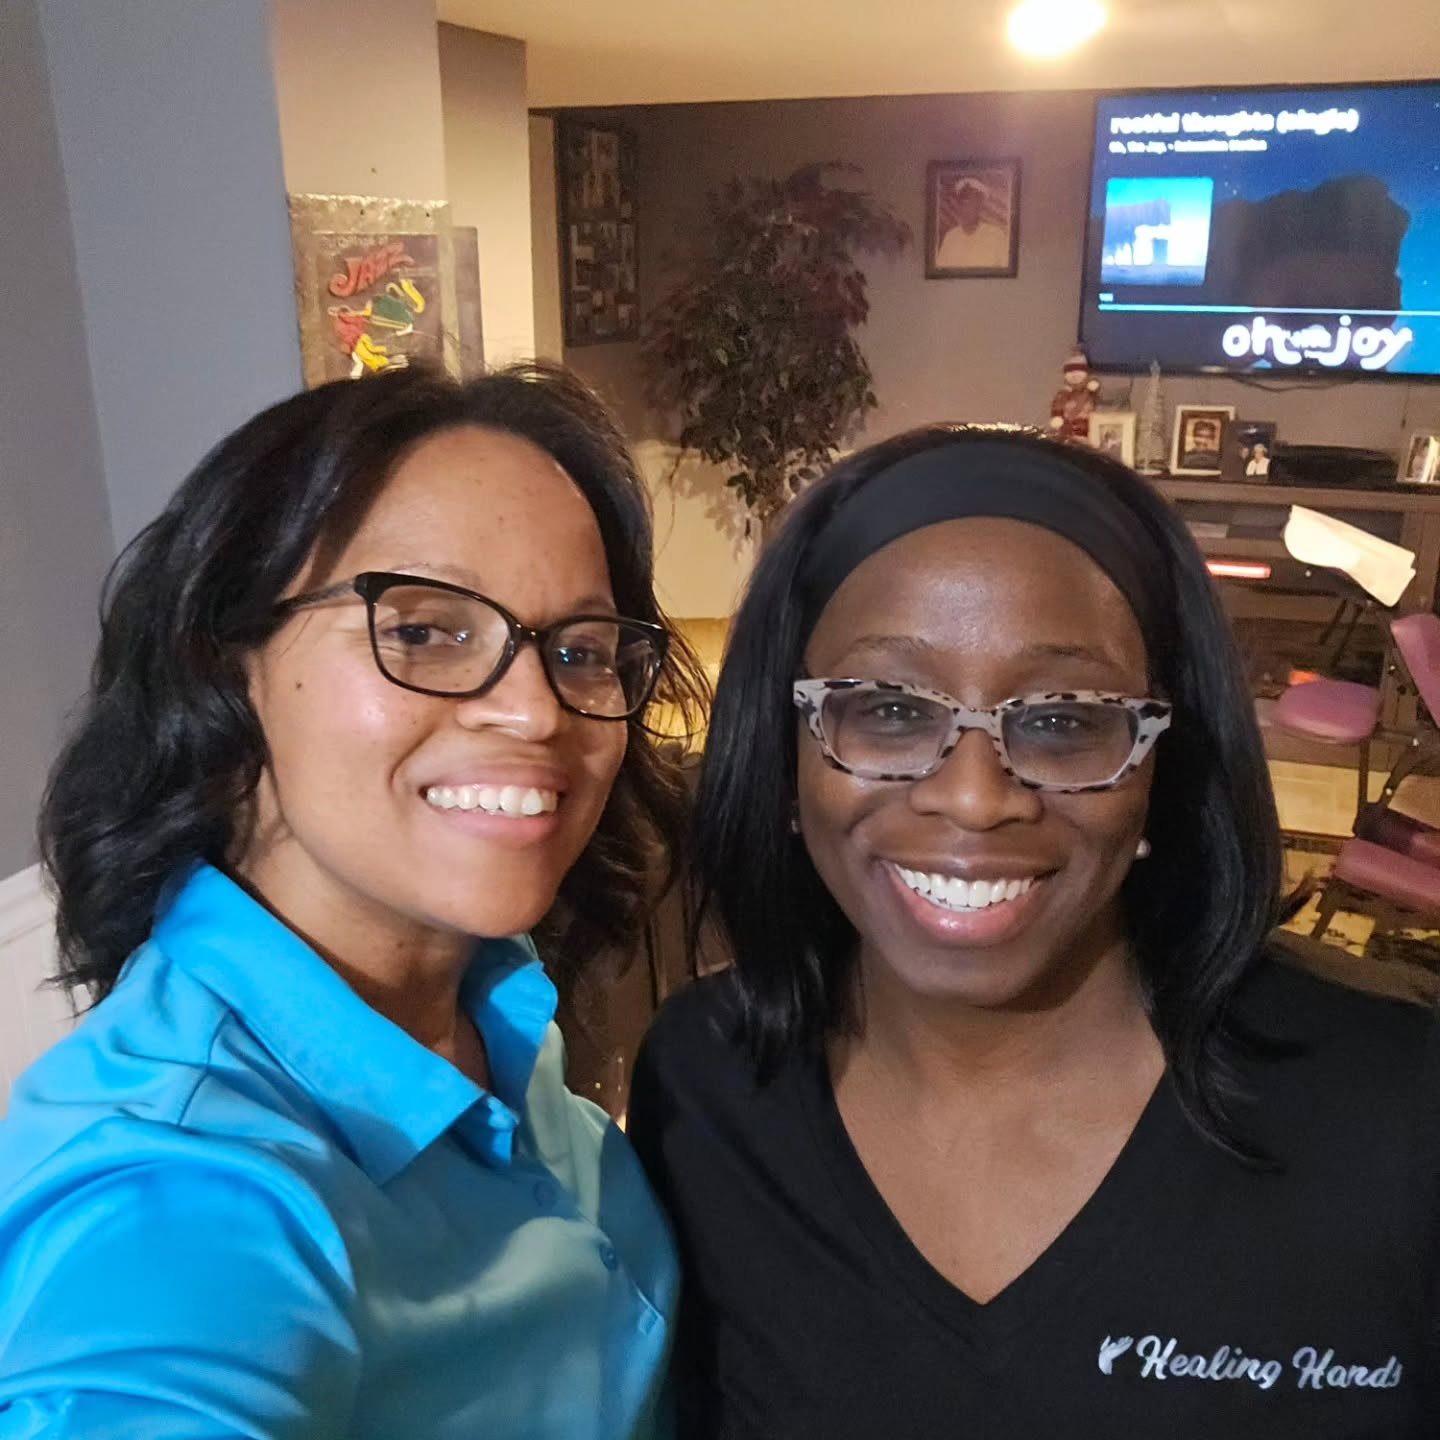
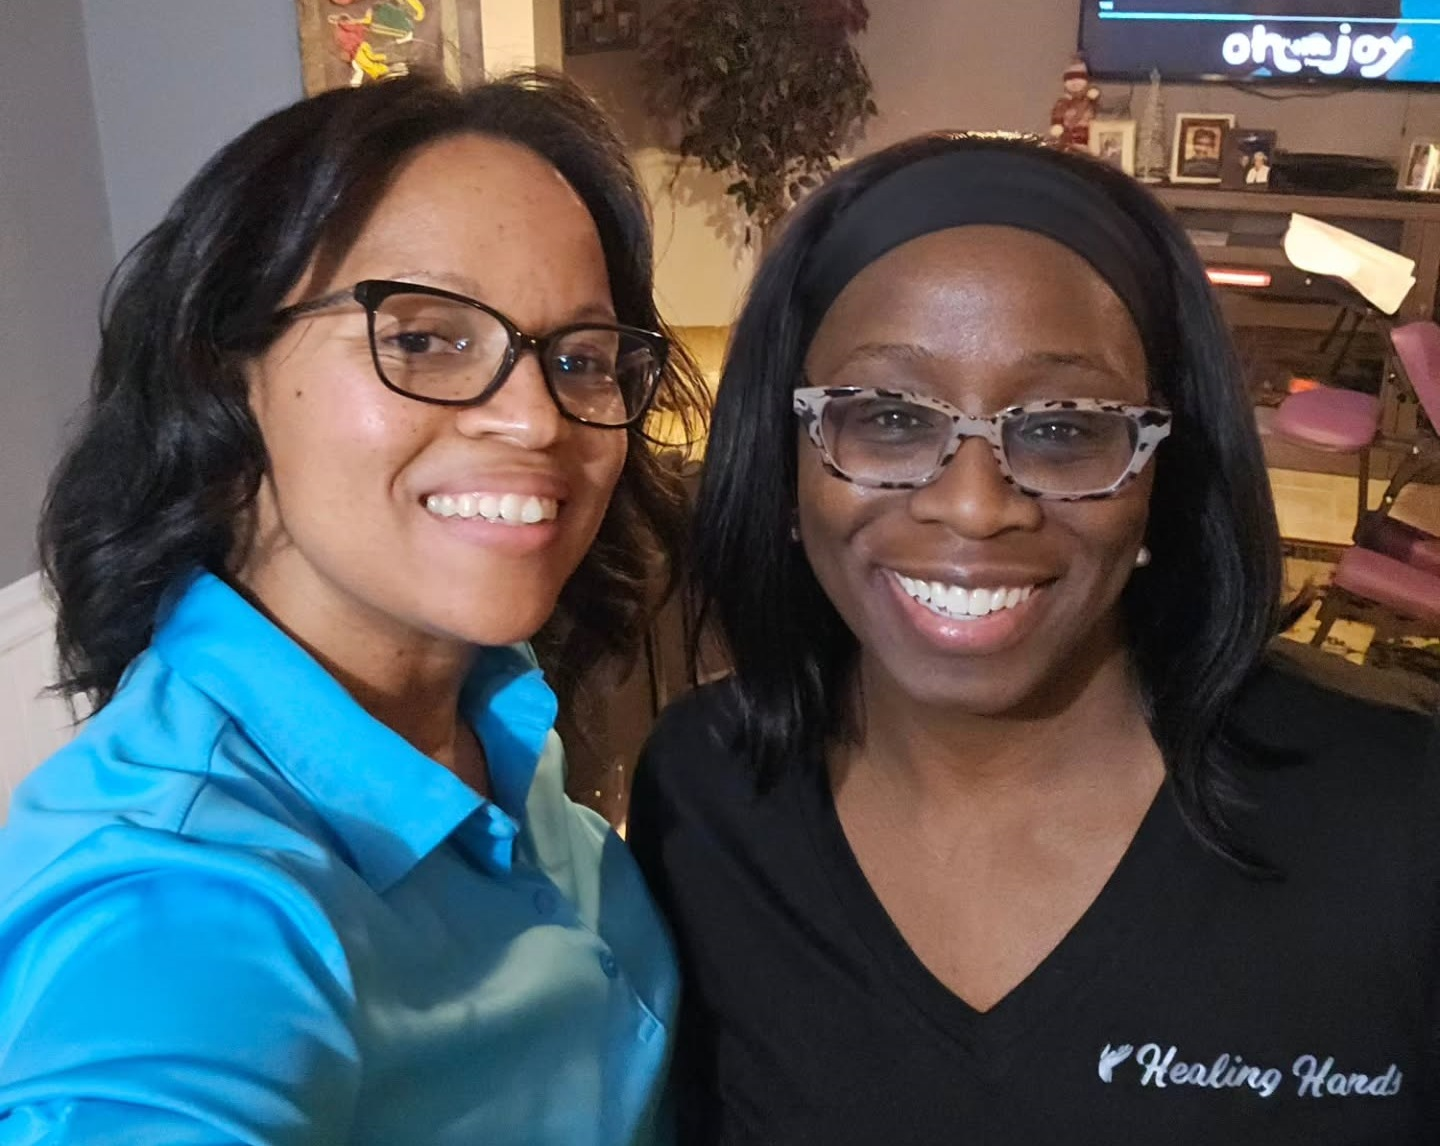
nit changes

diff --git a/src/core/components/reserveBtn.tsx b/src/core/components/reserveBtn.tsx
@@ -42,6 +42,7 @@ function ReserveModal({ service, visible, closeAction }: ReserveModalType) {
     const [invalidFields, setInvalidFields] = useState<{ [key:string]:boolean }>({});
 
     const formInit = useRef(false);
+    const reserveFormStart = useRef<HTMLDivElement>(null);
 
     const [retrieveTimes,{ loading, data }] = useLazyQuery(GET_TIMES_QUERY, {fetchPolicy: 'no-cache', onError: handleGQLError});
     const [createEvent,{ loading: create_event_loading, data: create_event_data }] = useMutation(CREATE_EVENT, {fetchPolicy: 'no-cache', onError: handleGQLError });
@@ -227,12 +228,32 @@ function ReserveModal({ service, visible, closeAction }: ReserveModalType) {
         <Rodal className="reservation-form" visible={visible} onClose={closeAction} 
             width={calcModalSize().width} height={calcModalSize().height} animation={"slideRight"}>
             <div className={`form-container ${completed ? 'complete' : ''}`}>
+                <div className="form-status">
+                    {create_event_loading ?
+                        <div className='icon-loading-container'>
+                            <l-ripples size="72" speed="0.9" color="rgba(160, 82, 45,1)"></l-ripples>   
+                        </div> :
+                        <div className={`form-icon ${completed ? 'complete' : ''}`}>
+                            <span className="material-symbols-outlined">{completed ? 'check' : 'calendar_month'}</span>
+                        </div>
+                    }
+                    
+
+                    <div className="title">{completed ? 'Requested' : 'Requesting'} a new appointment</div>
+                    <p>Thank you for your interest in our <b>{service.title}</b>.</p>
+                    <p>{completed ? 'We will follow up with you pending your request.' : 'Please complete the form with the required information to proceed.'}</p>
+                </div>
                 <div className="form-actions">
                     <div className="title">{service.title}</div>
                     <div className="subtitle">{timeString(service.time)} | {priceString(service.price)}</div>
+                    <div className="sub-instructions" onClick={()=>{ reserveFormStart?.current?.scrollIntoView();}}>
+                        <span className="material-symbols-outlined">stat_minus_2</span>
+                        <span>Complete Form Below</span>
+                        <span className="material-symbols-outlined">stat_minus_2</span>
+                    </div>
 
                     <p className="description">{parse(service?.description ?? "Please contact us for more information on this service.")}</p>
-                    <div className="selection-container">
+                    <div className="selection-container" ref={reserveFormStart}>
                         <div className="selection-title">Contact Information</div>
 
                         <div className="contact-form">
@@ -284,21 +305,7 @@ function ReserveModal({ service, visible, closeAction }: ReserveModalType) {
                         </div>
                     </div>
                 </div>
-                <div className="form-status">
-                    {create_event_loading ?
-                        <div className='icon-loading-container'>
-                            <l-ripples size="72" speed="0.9" color="rgba(160, 82, 45,1)"></l-ripples>   
-                        </div> :
-                        <div className={`form-icon ${completed ? 'complete' : ''}`}>
-                            <span className="material-symbols-outlined">{completed ? 'check' : 'calendar_month'}</span>
-                        </div>
-                    }
-                    
-
-                    <div className="title">{completed ? 'Requested' : 'Requesting'} a new appointment</div>
-                    <p>Thank you for your interest in our <b>{service.title}</b>.</p>
-                    <p>{completed ? 'We will follow up with you pending your request.' : 'Please complete the form with the required information to proceed.'}</p>
-
+                <div className="form-status cta">
                     <div className="btn-container">
                         <div className={`btn main c1 ${selTime && checkInvalidFields()?.length === 0 && !completed ? '' : 'disable'}`} onClick={submitForm}>Request Appointment</div>
                         <div className="btn" onClick={()=> resetForm(true)}>Return to services</div>
@@ -311,6 +318,10 @@ function ReserveModal({ service, visible, closeAction }: ReserveModalType) {
 
 function ReserveBtn({ service }: ReserveBtnType){
     const [open, setOpen] = useState(false);
+
+    useEffect(()=> { 
+        document.body.classList.toggle('noscroll', (open == true));        
+    }, [open]);
     
     return(
         <>

diff --git a/public/css/app.css b/public/css/app.css
@@ -695,6 +695,7 @@ html {
 }
 .services-container .service-info .service-info-container .info-title .img-container img {
   width: 100%;
+  min-height: 100%;
   object-fit: cover;
 }
 .services-container .service-info .service-info-container .description-container {
@@ -744,7 +745,7 @@ html {
 }
 @media (max-width: 770px) {
   .services-container .service-info.sz-2 {
-    width: calc(90% - 16px);
+    width: calc(100% - 16px);
     min-width: calc(90% - 16px);
   }
 }
@@ -753,7 +754,7 @@ html {
 }
 @media (max-width: 770px) {
   .services-container .service-info.sz-3 {
-    width: calc(80% - 16px);
+    width: calc(100% - 16px);
     min-width: calc(80% - 16px);
   }
 }
@@ -761,13 +762,9 @@ html {
   flex-wrap: nowrap;
 }
 @media (max-width: 770px) {
-  .services-container.paged {
-    overflow-x: auto;
-  }
-}
-@media (max-width: 770px) {
   .services-container {
     padding: 0 5%;
+    flex-direction: column;
   }
 }
 .pager-container {
@@ -1125,7 +1122,7 @@ html {
   display: flex;
   flex-direction: column;
   justify-content: center;
-  padding: 24px;
+  padding: 8px 24px 24px;
   text-align: center;
 }
 .reservation-form .rodal-dialog .form-status .icon-loading-container {
@@ -1157,12 +1154,12 @@ html {
   font-size: 1rem;
 }
 .reservation-form .rodal-dialog .form-status p {
-  font-size: 1rem;
+  font-size: 0.8rem;
   margin-bottom: 0;
 }
 .reservation-form .rodal-dialog .form-status .btn-container {
   flex-direction: column;
-  margin-top: 40px;
+  margin-top: 24px;
 }
 .reservation-form .rodal-dialog .form-status .btn-container .btn {
   margin: 4px 0;
@@ -1173,6 +1170,7 @@ html {
   background-color: #e6e6e6;
   padding: 32px 16px 16px;
   overflow-y: auto;
+  scroll-behavior: smooth;
 }
 .reservation-form .rodal-dialog .form-actions .title {
   font-size: 1.5rem;
@@ -1181,8 +1179,22 @@ html {
 .reservation-form .rodal-dialog .form-actions .subtitle {
   color: #646464;
 }
+.reservation-form .rodal-dialog .form-actions .sub-instructions {
+  text-align: center;
+  color: rgba(160, 82, 45, 0.7) !important;
+  display: flex;
+  flex-direction: row;
+  justify-content: center;
+  padding: 16px 0 0;
+  cursor: pointer;
+}
+.reservation-form .rodal-dialog .form-actions .sub-instructions span {
+  margin: auto 0;
+  font-size: 0.8rem;
+  font-weight: bold;
+}
 .reservation-form .rodal-dialog .form-actions .description {
-  margin: 16px 0;
+  margin: 0 0 16px;
   text-overflow: ellipsis;
   line-height: 1.5rem;
   display: -webkit-box;
@@ -3027,6 +3039,14 @@ html {
 .home .home-section .slider-container {
   margin: 24px 0;
 }
+.home .home-section .section-anchor {
+  display: none;
+}
+@media (max-width: 770px) {
+  .home .home-section .section-anchor {
+    display: block;
+  }
+}
 .home .home-section.contained {
   padding: 80px 10%;
   overflow: hidden;
@@ -3072,8 +3092,14 @@ html {
   object-fit: cover;
 }
 @media (max-width: 770px) {
+  .aboutus .about-img-grid .img-col .img-container {
+    max-width: calc(50% - 16px);
+  }
+}
+@media (max-width: 770px) {
   .aboutus .about-img-grid .img-col {
     flex-direction: row;
+    justify-content: center;
     height: calc(33% - 16px);
   }
 }

diff --git a/src/styles/app.less b/src/styles/app.less
@@ -352,7 +352,7 @@ body, html {
                     width: 50px; height: 50px; border-radius: 4px;
                     overflow: hidden; margin-left: 16px;
     
-                    img { width: 100%; object-fit: cover; }
+                    img { width: 100%; min-height: 100%; object-fit: cover; }
                 }
             }
     
@@ -393,21 +393,19 @@ body, html {
 
         &.sz-2 { 
             width: calc(50% - 16px);
-            @media @mobile-device { width: calc(90% - 16px); min-width: calc(90% - 16px); }
+            @media @mobile-device { width: calc(100% - 16px); min-width: calc(90% - 16px); }
         }
         &.sz-3 { 
             width: calc(33% - 16px);
-            @media @mobile-device { width: calc(80% - 16px); min-width: calc(80% - 16px); } 
+            @media @mobile-device { width: calc(100% - 16px); min-width: calc(80% - 16px); } 
         }
     }
 
     &.paged { 
         flex-wrap: nowrap;
-
-        @media @mobile-device { overflow-x: auto; }
     }
 
-    @media @mobile-device { padding: 0 5%; }
+    @media @mobile-device { padding: 0 5%; flex-direction: column; }
 }
 
 .pager-container {
@@ -689,7 +687,7 @@ body, html {
 
         .form-status { 
             flex: 1; display: flex; flex-direction: column;
-            justify-content: center; padding: 24px;
+            justify-content: center; padding: 8px 24px 24px;
             text-align: center;
 
             .icon-loading-container {
@@ -718,10 +716,10 @@ body, html {
             .title { 
                 font-weight: bold; font-size: 1rem;
             }
-            p { font-size: 1rem; margin-bottom: 0; }
+            p { font-size: 0.8rem; margin-bottom: 0; }
 
             .btn-container { 
-                flex-direction: column; margin-top: 40px;
+                flex-direction: column; margin-top: 24px;
 
                 .btn { margin: 4px 0; }
             }
@@ -731,6 +729,7 @@ body, html {
             width: 55%; border-radius: 8px;
             background-color: rgba(230,230,230,1);
             padding: 32px 16px 16px; overflow-y: auto;
+            scroll-behavior: smooth;
 
             .title {
                 font-size: 1.5rem; margin-bottom: 8px;
@@ -738,8 +737,18 @@ body, html {
 
             .subtitle { color: rgba(100,100,100,1); }
 
+            .sub-instructions {
+                text-align: center;
+                .color1(color, 0.7);
+                display: flex; flex-direction: row;
+                justify-content: center; padding: 16px 0 0;
+                cursor: pointer;
+
+                span { margin: auto 0; font-size: .8rem; font-weight: bold; }
+            }
+
             .description {
-                margin: 16px 0; text-overflow: ellipsis;
+                margin: 0 0 16px; text-overflow: ellipsis;
                 line-height: 1.5rem;
                 display: -webkit-box; overflow: hidden;
                 -webkit-box-orient: vertical;

diff --git a/src/core/pages/home.tsx b/src/core/pages/home.tsx
@@ -1,4 +1,4 @@
-import { useEffect, useState } from 'react';
+import { useEffect, useRef, useState } from 'react';
 import { gql, useLazyQuery } from '@apollo/client';
 import { FontAwesomeIcon } from '@fortawesome/react-fontawesome';
 import { faFacebookF, faInstagram, faGoogle } from '@fortawesome/free-brands-svg-icons';
@@ -39,11 +39,14 @@ function Home(){
     // Services Paging
     const [services, setServices] = useState<Service[]>([]);
     const [pages, setPages] = useState({ page: 0, total: 0 });
+    const serviceSectionRef = useRef<HTMLDivElement>(null);
 
     const [retrieveServices,{ loading: services_loading, data: services_data }] = useLazyQuery(GET_SERVICES_QUERY, {fetchPolicy: 'no-cache', onError: handleGQLError});
 
     const setPage = (pg:number) => {
         try {
+            serviceSectionRef?.current?.scrollIntoView();
+
             setPages((d:any)=> {
                 let tmpD = {...d, page: pg };
 
@@ -73,6 +76,7 @@ function Home(){
     },[services_data]);
 
     useEffect(()=>{
+        document.title = "Praying Hands Massage & Bodywork";
         retrieveServices({ variables: { type: '' }});
         tagPageview('/', 'View Page');
     },[]);
@@ -145,6 +149,7 @@ function Home(){
             </section>
 
             <section className='home-section contained alt-color mobile-full'>
+                <div className='section-anchor' ref={serviceSectionRef}/>
                 <h1 className='section-title'>Services + Sessions</h1>
                 <span className='section-subtitle'>Relax and Rejuvenate with Praying Hands Massage and Bodywork</span>
 

diff --git a/server/services/reviews.service.js b/server/services/reviews.service.js
@@ -37,6 +37,24 @@ module.exports = {
             console.log(res.data);
 */  
             const tmpReviews = [
+                {
+                    name: 'Jennifer Bowman', reviewId: '',
+                    reviewer: { displayName: "Jennifer Bowman" },
+                    starRating: 'FIVE', comment: "An outstanding, professional, and wholesome massage experience! Patricia is a real local treasure for healing and massage care. I was grateful to find her and highly recommend Praying Hands for anyone seeking solid massage therapy care.",
+                    createTime: new Date(),
+                },
+                {
+                    name: 'Christine Riccardi', reviewId: '',
+                    reviewer: { displayName: "Christine Riccardi" },
+                    starRating: 'FIVE', comment: "Trish is wonderful. I have been in DE for 2 years and finally found my massage therapist.",
+                    createTime: new Date(),
+                },
+                {
+                    name: 'Valerie Baul', reviewId: '',
+                    reviewer: { displayName: "Valerie Baul" },
+                    starRating: 'FIVE', comment: "Excellent Massage and Reiki session!  Trish does have praying and healing hands!",
+                    createTime: new Date(),
+                },
                 { 
                     name: 'Theresa Legar', reviewId: '',
                     reviewer: { displayName: "Theresa Legar" },

diff --git a/src/styles/aboutus.less b/src/styles/aboutus.less
@@ -11,10 +11,14 @@
                 flex: 1; border-radius: 8px; 
                 margin: 8px; overflow: hidden;
                 img { width: 100%; min-height: 100%; object-fit: cover; }
+
+                @media @mobile-device {
+                    max-width: calc(50% - 16px);
+                }
             }
 
             @media @mobile-device { 
-                flex-direction: row; 
+                flex-direction: row; justify-content: center;
                 height: calc(33% - 16px);
             }
         }

diff --git a/src/styles/home.less b/src/styles/home.less
@@ -148,6 +148,11 @@
 
         .slider-container { margin: 24px 0; }
 
+        .section-anchor { 
+            display: none;
+            @media @mobile-device { display: block; }
+        }
+
         &.contained {
             padding: 80px 10%; overflow: hidden;
 
